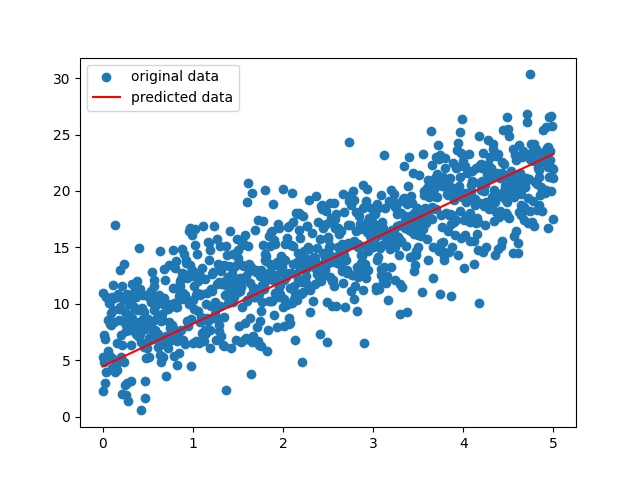
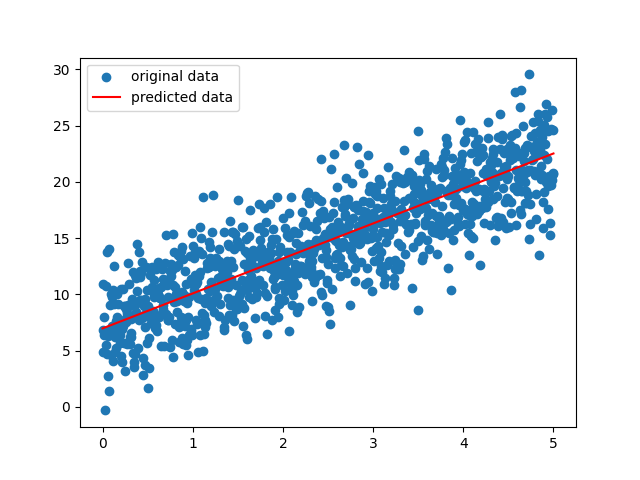
09-07-2025 implementation of Linear Regression

diff --git a/linear/linear.py b/linear/linear.py
@@ -13,10 +13,10 @@ model=Sequential()
 model.add(Dense(units=1,input_dim=1,activation='linear'))
 
 # compile
-model.compile(optimizer='sgd',loss='mse')
+model.compile(optimizer='sgd',loss='mse',metrics=['mae'])
 
 # train
-model.fit(X,y,epochs=5)
+model.fit(X,y,epochs=10,batch_size=16)
 
 # evaluate
 model.evaluate(X,y)
